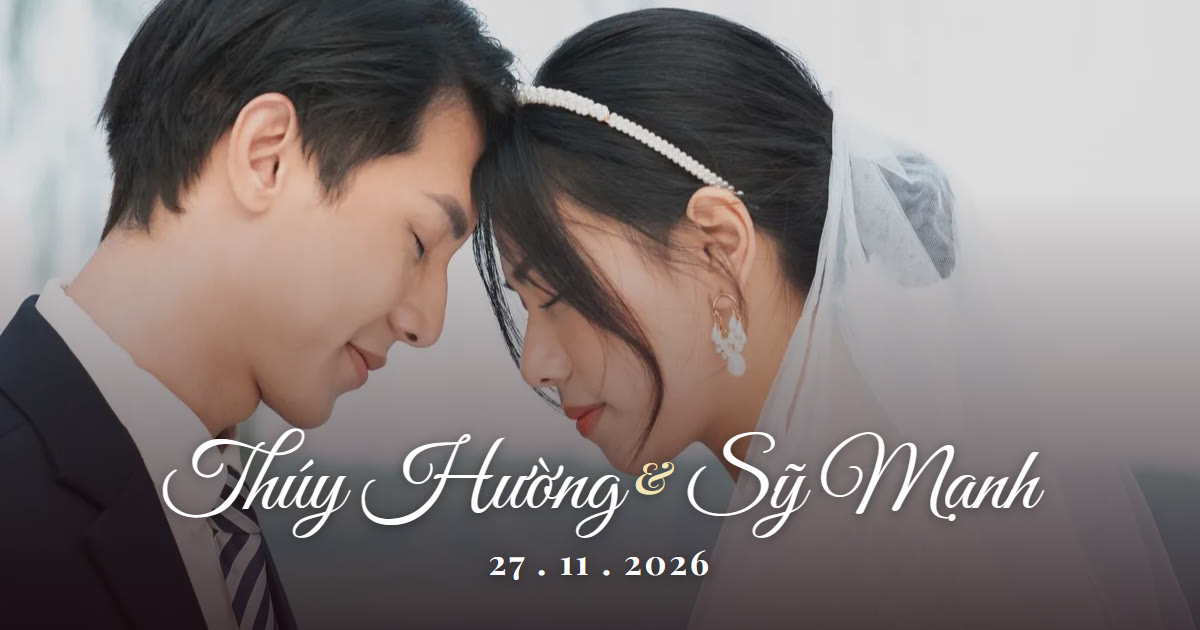
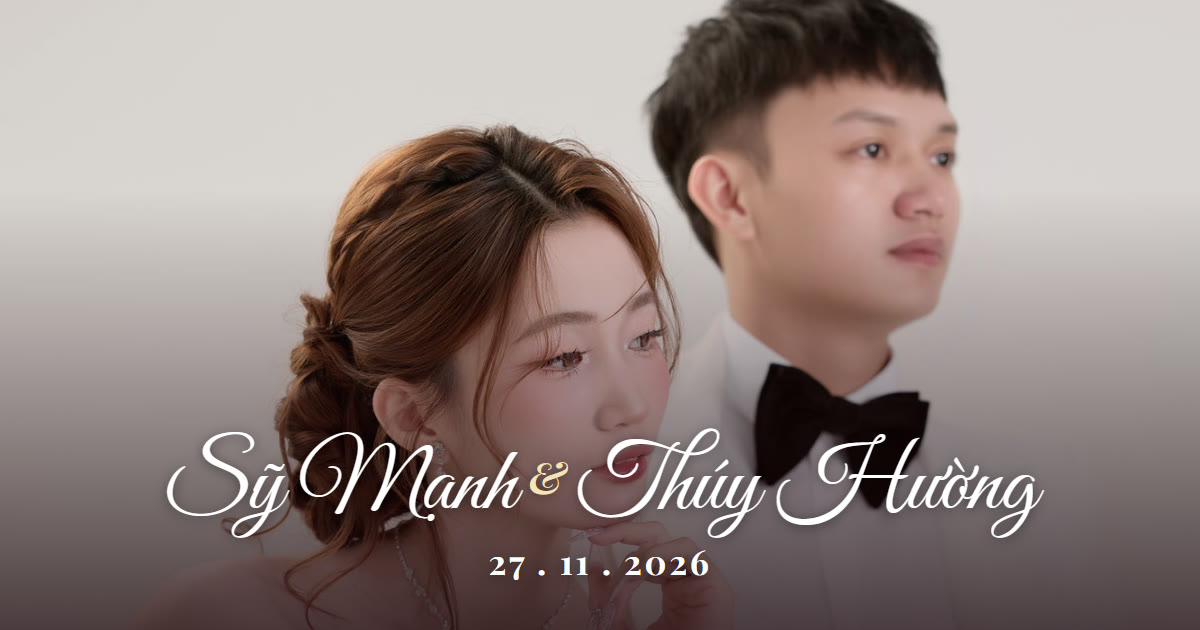
Cập nhật thiệp 16:41:25 29/10/2026

diff --git a/kh-b8444d181b80.html b/kh-b8444d181b80.html
@@ -14,13 +14,13 @@
 <meta name="twitter:title" content="Thúy Hường &amp; Sỹ Mạnh">
 <meta name="twitter:description" content="Trân trọng kính mời Anh Trung đà lạt Và Gia Đình tới dự bữa cơm thân mật chung vui cùng gia đình chúng tôi | Thứ Sáu, 27 tháng 11, 2026 | Gia đình nhà gái">
 <meta property="og:url" content="https://tieudi-worker.github.io/thiep-thuyhuong-symanh/kh-b8444d181b80">
-<meta property="og:image" content="https://tieudi-worker.github.io/thiep-thuyhuong-symanh/og-image-cba0cec8acec.jpg">
-<meta property="og:image:secure_url" content="https://tieudi-worker.github.io/thiep-thuyhuong-symanh/og-image-cba0cec8acec.jpg">
+<meta property="og:image" content="https://tieudi-worker.github.io/thiep-thuyhuong-symanh/og-image-c921af8099b0.jpg">
+<meta property="og:image:secure_url" content="https://tieudi-worker.github.io/thiep-thuyhuong-symanh/og-image-c921af8099b0.jpg">
 <meta property="og:image:type" content="image/jpeg">
 <meta property="og:image:width" content="1200">
 <meta property="og:image:height" content="630">
 <meta property="og:image:alt" content="Thúy Hường &amp; Sỹ Mạnh">
-<meta name="twitter:image" content="https://tieudi-worker.github.io/thiep-thuyhuong-symanh/og-image-cba0cec8acec.jpg">
+<meta name="twitter:image" content="https://tieudi-worker.github.io/thiep-thuyhuong-symanh/og-image-c921af8099b0.jpg">
 <meta name="twitter:image:alt" content="Thúy Hường &amp; Sỹ Mạnh">
[1 lines of base64/hex data omitted]
 </head>
@@ -203,6 +203,7 @@ body.page-hidden *, body.page-hidden *::before, body.page-hidden *::after { anim
 .envelope.seal-off .env-seal { animation: sealPop .6s cubic-bezier(.3, 0, .2, 1); }
 @keyframes sealPop { 0% { transform: translate(-50%, -50%) scale(1); } 40% { transform: translate(-50%, -50%) scale(1.25) rotate(-12deg); } 100% { transform: translate(-50%, -50%) scale(1); } }
 .photo-fill { width: 100%; height: 100%; object-fit: cover; display: block; }
+#coverPhoto .photo-fill { object-position: 50% 22%; }   /* ảnh bìa dọc: giữ phần mặt trong khung phong bì */
 .ph {
   width: 100%; height: 100%;
   display: grid; place-items: center; text-align: center;
@@ -861,8 +862,11 @@ const CONFIG = {
   },
 
   photos: {
-    cover: "anh/mau-04.webp",          // Ảnh mẫu tạm QUIN Bridal/Pexels; thay bằng ảnh chính chủ sau
-    album: ["anh/mau-01.webp", "anh/mau-02.webp", "anh/mau-03.webp", "anh/mau-04.webp", "anh/mau-05.webp", "anh/mau-06.webp"]
+    cover: "anh/cuoi-07.jpg",          // ảnh cưới thật (bản web 1200px); bản gốc nằm trong anh-goc/, không đưa lên mạng
+    // album: bản 1200px để lướt; bấm ảnh mở bản nét 2000px cùng tên trong anh/full/ (thiếu thì dùng bản thường)
+    album: ["anh/cuoi-01.jpg", "anh/cuoi-02.jpg", "anh/cuoi-03.jpg", "anh/cuoi-04.jpg", "anh/cuoi-05.jpg",
+            "anh/cuoi-06.jpg", "anh/cuoi-07.jpg", "anh/cuoi-08.jpg", "anh/cuoi-09.jpg", "anh/cuoi-10.jpg",
+            "anh/cuoi-11.jpg", "anh/cuoi-12.jpg", "anh/cuoi-13.jpg", "anh/cuoi-14.jpg", "anh/cuoi-15.jpg"]
   },
   music: [
     { src: "am-thanh/em-dong-y.mp3", title: "Em Đồng Ý (I Do)" },
@@ -1140,7 +1144,13 @@ function buildAlbum() {
 const ALBUM_SPREAD = 62;   // % chiều rộng ảnh mà mỗi lớp lệch sang bên
 const SWIPE_MIN_PX = 40;
 
-function openLightbox(src) { $("lightImg").src = src; $("lightbox").hidden = false; }
+function openLightbox(src) {
+  const img = $("lightImg");
+  const full = src.replace(/^anh\//, "anh/full/");
+  img.onerror = () => { img.onerror = null; img.src = src; };   // chưa có bản nét thì dùng bản thường
+  img.src = full;
+  $("lightbox").hidden = false;
+}
 $("lightbox").addEventListener("click", () => { $("lightbox").hidden = true; });
 
 /* ---------- Lịch + đếm ngược ---------- */

diff --git a/kh-0641b3c17b59.html b/kh-0641b3c17b59.html
@@ -14,13 +14,13 @@
 <meta name="twitter:title" content="Thúy Hường &amp; Sỹ Mạnh">
 <meta name="twitter:description" content="Trân trọng kính mời Anh Trung và gia đình tới dự bữa cơm thân mật chung vui cùng gia đình chúng tôi | Thứ Sáu, 27 tháng 11, 2026 | Gia đình nhà gái">
 <meta property="og:url" content="https://tieudi-worker.github.io/thiep-thuyhuong-symanh/kh-0641b3c17b59">
-<meta property="og:image" content="https://tieudi-worker.github.io/thiep-thuyhuong-symanh/og-image-cba0cec8acec.jpg">
-<meta property="og:image:secure_url" content="https://tieudi-worker.github.io/thiep-thuyhuong-symanh/og-image-cba0cec8acec.jpg">
+<meta property="og:image" content="https://tieudi-worker.github.io/thiep-thuyhuong-symanh/og-image-c921af8099b0.jpg">
+<meta property="og:image:secure_url" content="https://tieudi-worker.github.io/thiep-thuyhuong-symanh/og-image-c921af8099b0.jpg">
 <meta property="og:image:type" content="image/jpeg">
 <meta property="og:image:width" content="1200">
 <meta property="og:image:height" content="630">
 <meta property="og:image:alt" content="Thúy Hường &amp; Sỹ Mạnh">
-<meta name="twitter:image" content="https://tieudi-worker.github.io/thiep-thuyhuong-symanh/og-image-cba0cec8acec.jpg">
+<meta name="twitter:image" content="https://tieudi-worker.github.io/thiep-thuyhuong-symanh/og-image-c921af8099b0.jpg">
 <meta name="twitter:image:alt" content="Thúy Hường &amp; Sỹ Mạnh">
[1 lines of base64/hex data omitted]
 </head>
@@ -203,6 +203,7 @@ body.page-hidden *, body.page-hidden *::before, body.page-hidden *::after { anim
 .envelope.seal-off .env-seal { animation: sealPop .6s cubic-bezier(.3, 0, .2, 1); }
 @keyframes sealPop { 0% { transform: translate(-50%, -50%) scale(1); } 40% { transform: translate(-50%, -50%) scale(1.25) rotate(-12deg); } 100% { transform: translate(-50%, -50%) scale(1); } }
 .photo-fill { width: 100%; height: 100%; object-fit: cover; display: block; }
+#coverPhoto .photo-fill { object-position: 50% 22%; }   /* ảnh bìa dọc: giữ phần mặt trong khung phong bì */
 .ph {
   width: 100%; height: 100%;
   display: grid; place-items: center; text-align: center;
@@ -861,8 +862,11 @@ const CONFIG = {
   },
 
   photos: {
-    cover: "anh/mau-04.webp",          // Ảnh mẫu tạm QUIN Bridal/Pexels; thay bằng ảnh chính chủ sau
-    album: ["anh/mau-01.webp", "anh/mau-02.webp", "anh/mau-03.webp", "anh/mau-04.webp", "anh/mau-05.webp", "anh/mau-06.webp"]
+    cover: "anh/cuoi-07.jpg",          // ảnh cưới thật (bản web 1200px); bản gốc nằm trong anh-goc/, không đưa lên mạng
+    // album: bản 1200px để lướt; bấm ảnh mở bản nét 2000px cùng tên trong anh/full/ (thiếu thì dùng bản thường)
+    album: ["anh/cuoi-01.jpg", "anh/cuoi-02.jpg", "anh/cuoi-03.jpg", "anh/cuoi-04.jpg", "anh/cuoi-05.jpg",
+            "anh/cuoi-06.jpg", "anh/cuoi-07.jpg", "anh/cuoi-08.jpg", "anh/cuoi-09.jpg", "anh/cuoi-10.jpg",
+            "anh/cuoi-11.jpg", "anh/cuoi-12.jpg", "anh/cuoi-13.jpg", "anh/cuoi-14.jpg", "anh/cuoi-15.jpg"]
   },
   music: [
     { src: "am-thanh/em-dong-y.mp3", title: "Em Đồng Ý (I Do)" },
@@ -1140,7 +1144,13 @@ function buildAlbum() {
 const ALBUM_SPREAD = 62;   // % chiều rộng ảnh mà mỗi lớp lệch sang bên
 const SWIPE_MIN_PX = 40;
 
-function openLightbox(src) { $("lightImg").src = src; $("lightbox").hidden = false; }
+function openLightbox(src) {
+  const img = $("lightImg");
+  const full = src.replace(/^anh\//, "anh/full/");
+  img.onerror = () => { img.onerror = null; img.src = src; };   // chưa có bản nét thì dùng bản thường
+  img.src = full;
+  $("lightbox").hidden = false;
+}
 $("lightbox").addEventListener("click", () => { $("lightbox").hidden = true; });
 
 /* ---------- Lịch + đếm ngược ---------- */

diff --git a/khach-thu-nghiem.html b/khach-thu-nghiem.html
@@ -14,13 +14,13 @@
 <meta name="twitter:title" content="Thúy Hường &amp; Sỹ Mạnh">
 <meta name="twitter:description" content="Thân mời Khách Thử Nghiệm tới dự bữa cơm thân mật chung vui cùng gia đình chúng tôi | Thứ Sáu, 27 tháng 11, 2026 | Gia đình nhà gái">
 <meta property="og:url" content="https://tieudi-worker.github.io/thiep-thuyhuong-symanh/khach-thu-nghiem">
-<meta property="og:image" content="https://tieudi-worker.github.io/thiep-thuyhuong-symanh/og-image-cba0cec8acec.jpg">
-<meta property="og:image:secure_url" content="https://tieudi-worker.github.io/thiep-thuyhuong-symanh/og-image-cba0cec8acec.jpg">
+<meta property="og:image" content="https://tieudi-worker.github.io/thiep-thuyhuong-symanh/og-image-c921af8099b0.jpg">
+<meta property="og:image:secure_url" content="https://tieudi-worker.github.io/thiep-thuyhuong-symanh/og-image-c921af8099b0.jpg">
 <meta property="og:image:type" content="image/jpeg">
 <meta property="og:image:width" content="1200">
 <meta property="og:image:height" content="630">
 <meta property="og:image:alt" content="Thúy Hường &amp; Sỹ Mạnh">
-<meta name="twitter:image" content="https://tieudi-worker.github.io/thiep-thuyhuong-symanh/og-image-cba0cec8acec.jpg">
+<meta name="twitter:image" content="https://tieudi-worker.github.io/thiep-thuyhuong-symanh/og-image-c921af8099b0.jpg">
 <meta name="twitter:image:alt" content="Thúy Hường &amp; Sỹ Mạnh">
 </head>
 <body>
@@ -202,6 +202,7 @@ body.page-hidden *, body.page-hidden *::before, body.page-hidden *::after { anim
 .envelope.seal-off .env-seal { animation: sealPop .6s cubic-bezier(.3, 0, .2, 1); }
 @keyframes sealPop { 0% { transform: translate(-50%, -50%) scale(1); } 40% { transform: translate(-50%, -50%) scale(1.25) rotate(-12deg); } 100% { transform: translate(-50%, -50%) scale(1); } }
 .photo-fill { width: 100%; height: 100%; object-fit: cover; display: block; }
+#coverPhoto .photo-fill { object-position: 50% 22%; }   /* ảnh bìa dọc: giữ phần mặt trong khung phong bì */
 .ph {
   width: 100%; height: 100%;
   display: grid; place-items: center; text-align: center;
@@ -860,8 +861,11 @@ const CONFIG = {
   },
 
   photos: {
-    cover: "anh/mau-04.webp",          // Ảnh mẫu tạm QUIN Bridal/Pexels; thay bằng ảnh chính chủ sau
-    album: ["anh/mau-01.webp", "anh/mau-02.webp", "anh/mau-03.webp", "anh/mau-04.webp", "anh/mau-05.webp", "anh/mau-06.webp"]
+    cover: "anh/cuoi-07.jpg",          // ảnh cưới thật (bản web 1200px); bản gốc nằm trong anh-goc/, không đưa lên mạng
+    // album: bản 1200px để lướt; bấm ảnh mở bản nét 2000px cùng tên trong anh/full/ (thiếu thì dùng bản thường)
+    album: ["anh/cuoi-01.jpg", "anh/cuoi-02.jpg", "anh/cuoi-03.jpg", "anh/cuoi-04.jpg", "anh/cuoi-05.jpg",
+            "anh/cuoi-06.jpg", "anh/cuoi-07.jpg", "anh/cuoi-08.jpg", "anh/cuoi-09.jpg", "anh/cuoi-10.jpg",
+            "anh/cuoi-11.jpg", "anh/cuoi-12.jpg", "anh/cuoi-13.jpg", "anh/cuoi-14.jpg", "anh/cuoi-15.jpg"]
   },
   music: [
     { src: "am-thanh/em-dong-y.mp3", title: "Em Đồng Ý (I Do)" },
@@ -1139,7 +1143,13 @@ function buildAlbum() {
 const ALBUM_SPREAD = 62;   // % chiều rộng ảnh mà mỗi lớp lệch sang bên
 const SWIPE_MIN_PX = 40;
 
-function openLightbox(src) { $("lightImg").src = src; $("lightbox").hidden = false; }
+function openLightbox(src) {
+  const img = $("lightImg");
+  const full = src.replace(/^anh\//, "anh/full/");
+  img.onerror = () => { img.onerror = null; img.src = src; };   // chưa có bản nét thì dùng bản thường
+  img.src = full;
+  $("lightbox").hidden = false;
+}
 $("lightbox").addEventListener("click", () => { $("lightbox").hidden = true; });
 
 /* ---------- Lịch + đếm ngược ---------- */

diff --git a/index.html b/index.html
@@ -14,13 +14,13 @@
 <meta name="twitter:title" content="Thúy Hường &amp; Sỹ Mạnh">
 <meta name="twitter:description" content="Trân trọng kính mời quý khách tới dự bữa cơm thân mật chung vui cùng gia đình chúng tôi | Thứ Sáu, 27 tháng 11, 2026 | Gia đình nhà gái">
 <meta property="og:url" content="https://tieudi-worker.github.io/thiep-thuyhuong-symanh/">
-<meta property="og:image" content="https://tieudi-worker.github.io/thiep-thuyhuong-symanh/og-image-cba0cec8acec.jpg">
-<meta property="og:image:secure_url" content="https://tieudi-worker.github.io/thiep-thuyhuong-symanh/og-image-cba0cec8acec.jpg">
+<meta property="og:image" content="https://tieudi-worker.github.io/thiep-thuyhuong-symanh/og-image-c921af8099b0.jpg">
+<meta property="og:image:secure_url" content="https://tieudi-worker.github.io/thiep-thuyhuong-symanh/og-image-c921af8099b0.jpg">
 <meta property="og:image:type" content="image/jpeg">
 <meta property="og:image:width" content="1200">
 <meta property="og:image:height" content="630">
 <meta property="og:image:alt" content="Thúy Hường &amp; Sỹ Mạnh">
-<meta name="twitter:image" content="https://tieudi-worker.github.io/thiep-thuyhuong-symanh/og-image-cba0cec8acec.jpg">
+<meta name="twitter:image" content="https://tieudi-worker.github.io/thiep-thuyhuong-symanh/og-image-c921af8099b0.jpg">
 <meta name="twitter:image:alt" content="Thúy Hường &amp; Sỹ Mạnh">
 </head>
 <body>
@@ -202,6 +202,7 @@ body.page-hidden *, body.page-hidden *::before, body.page-hidden *::after { anim
 .envelope.seal-off .env-seal { animation: sealPop .6s cubic-bezier(.3, 0, .2, 1); }
 @keyframes sealPop { 0% { transform: translate(-50%, -50%) scale(1); } 40% { transform: translate(-50%, -50%) scale(1.25) rotate(-12deg); } 100% { transform: translate(-50%, -50%) scale(1); } }
 .photo-fill { width: 100%; height: 100%; object-fit: cover; display: block; }
+#coverPhoto .photo-fill { object-position: 50% 22%; }   /* ảnh bìa dọc: giữ phần mặt trong khung phong bì */
 .ph {
   width: 100%; height: 100%;
   display: grid; place-items: center; text-align: center;
@@ -860,8 +861,11 @@ const CONFIG = {
   },
 
   photos: {
-    cover: "anh/mau-04.webp",          // Ảnh mẫu tạm QUIN Bridal/Pexels; thay bằng ảnh chính chủ sau
-    album: ["anh/mau-01.webp", "anh/mau-02.webp", "anh/mau-03.webp", "anh/mau-04.webp", "anh/mau-05.webp", "anh/mau-06.webp"]
+    cover: "anh/cuoi-07.jpg",          // ảnh cưới thật (bản web 1200px); bản gốc nằm trong anh-goc/, không đưa lên mạng
+    // album: bản 1200px để lướt; bấm ảnh mở bản nét 2000px cùng tên trong anh/full/ (thiếu thì dùng bản thường)
+    album: ["anh/cuoi-01.jpg", "anh/cuoi-02.jpg", "anh/cuoi-03.jpg", "anh/cuoi-04.jpg", "anh/cuoi-05.jpg",
+            "anh/cuoi-06.jpg", "anh/cuoi-07.jpg", "anh/cuoi-08.jpg", "anh/cuoi-09.jpg", "anh/cuoi-10.jpg",
+            "anh/cuoi-11.jpg", "anh/cuoi-12.jpg", "anh/cuoi-13.jpg", "anh/cuoi-14.jpg", "anh/cuoi-15.jpg"]
   },
   music: [
     { src: "am-thanh/em-dong-y.mp3", title: "Em Đồng Ý (I Do)" },
@@ -1139,7 +1143,13 @@ function buildAlbum() {
 const ALBUM_SPREAD = 62;   // % chiều rộng ảnh mà mỗi lớp lệch sang bên
 const SWIPE_MIN_PX = 40;
 
-function openLightbox(src) { $("lightImg").src = src; $("lightbox").hidden = false; }
+function openLightbox(src) {
+  const img = $("lightImg");
+  const full = src.replace(/^anh\//, "anh/full/");
+  img.onerror = () => { img.onerror = null; img.src = src; };   // chưa có bản nét thì dùng bản thường
+  img.src = full;
+  $("lightbox").hidden = false;
+}
 $("lightbox").addEventListener("click", () => { $("lightbox").hidden = true; });
 
 /* ---------- Lịch + đếm ngược ---------- */
